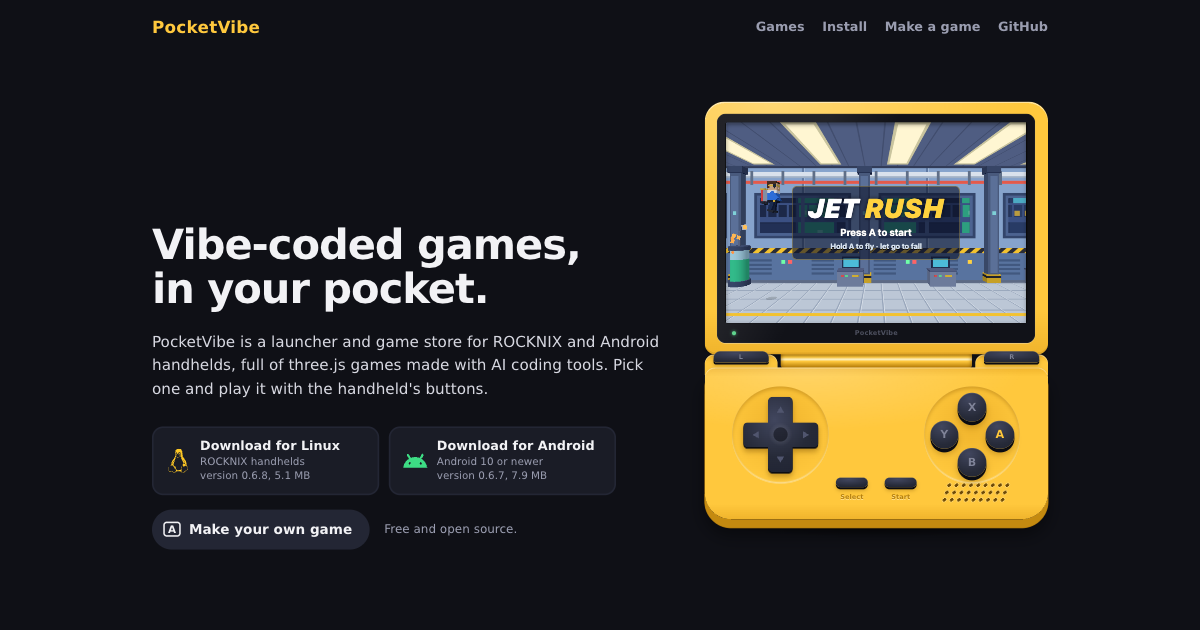
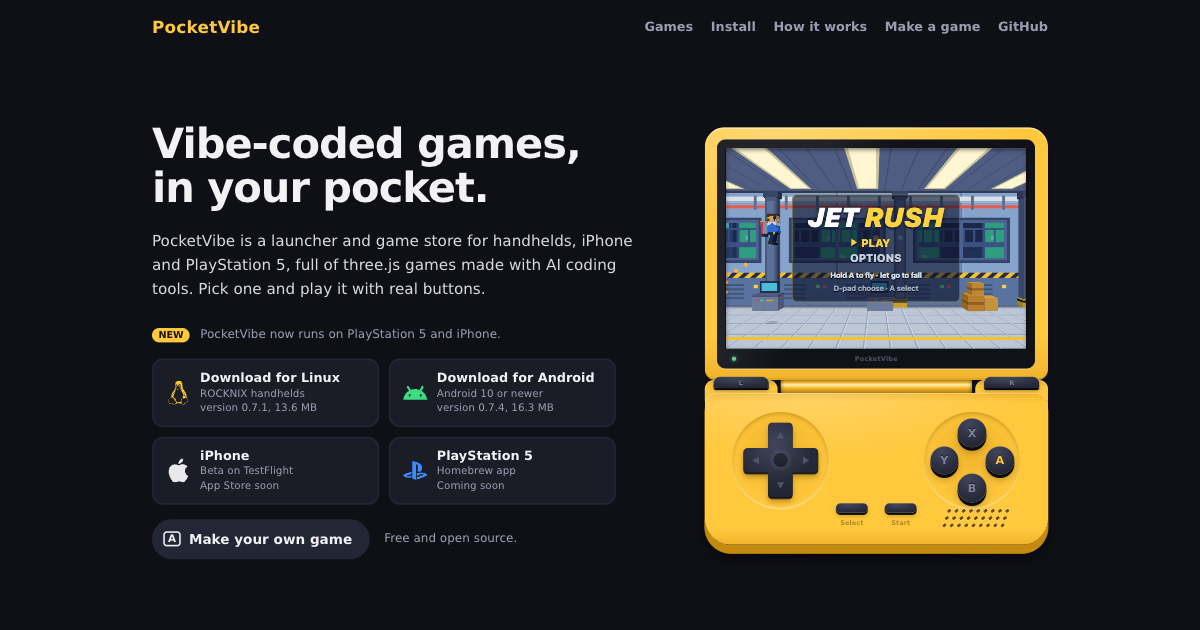
Site: the share picture shows all four platforms

diff --git a/site/index.html b/site/index.html
@@ -9,14 +9,14 @@
     <meta property="og:description" content="Vibe-coded games, in your pocket." />
     <meta property="og:type" content="website" />
     <meta property="og:url" content="https://pocketvibe.cobanov.dev/" />
-    <meta property="og:image" content="https://pocketvibe.cobanov.dev/img/share.png" />
+    <meta property="og:image" content="https://pocketvibe.cobanov.dev/img/share.png?v=2" />
     <meta property="og:image:width" content="1200" />
     <meta property="og:image:height" content="630" />
-    <meta property="og:image:alt" content="A yellow handheld playing Jet Rush, beside the downloads for Linux and Android" />
+    <meta property="og:image:alt" content="A yellow handheld playing Jet Rush, beside PocketVibe for Linux, Android, iPhone and PlayStation 5" />
     <meta name="twitter:card" content="summary_large_image" />
     <meta name="twitter:title" content="PocketVibe" />
     <meta name="twitter:description" content="Vibe-coded games, in your pocket." />
-    <meta name="twitter:image" content="https://pocketvibe.cobanov.dev/img/share.png" />
+    <meta name="twitter:image" content="https://pocketvibe.cobanov.dev/img/share.png?v=2" />
     <meta name="theme-color" content="#0f1016" />
     <link rel="icon" href="/favicon.svg" type="image/svg+xml" />
     <link rel="preload" href="/fonts/DejaVuSans-Bold.woff2" as="font" type="font/woff2" crossorigin />
